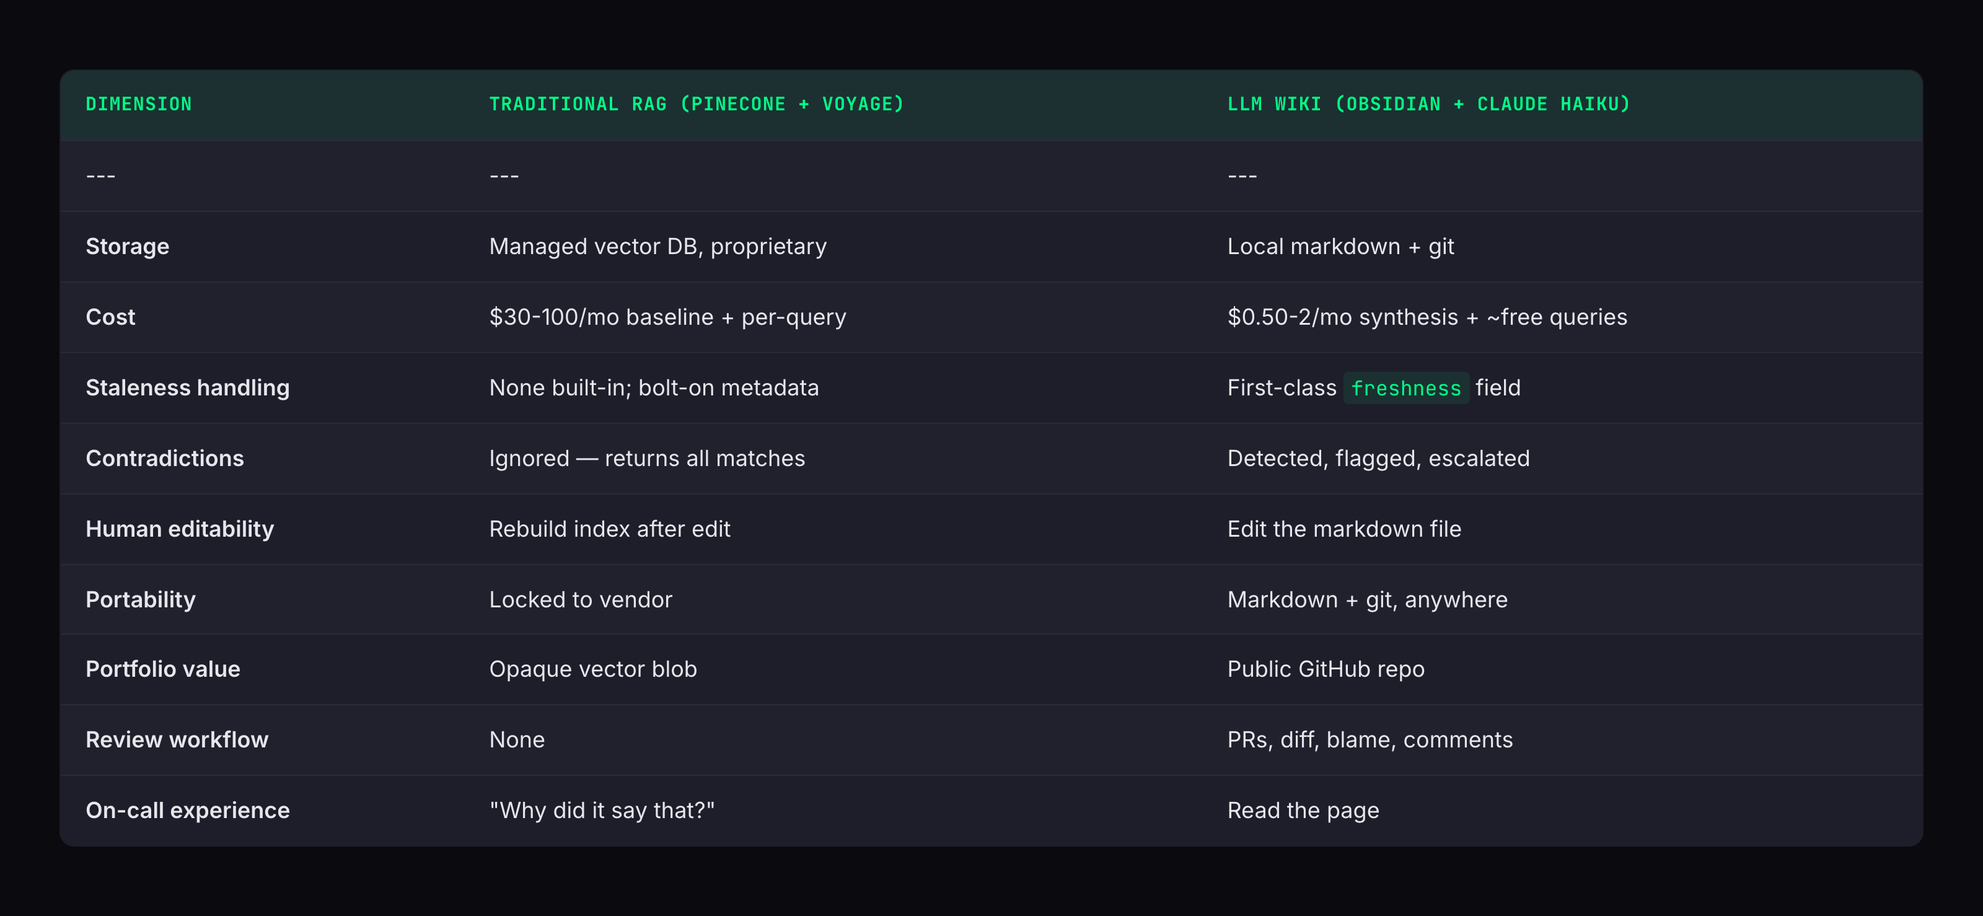
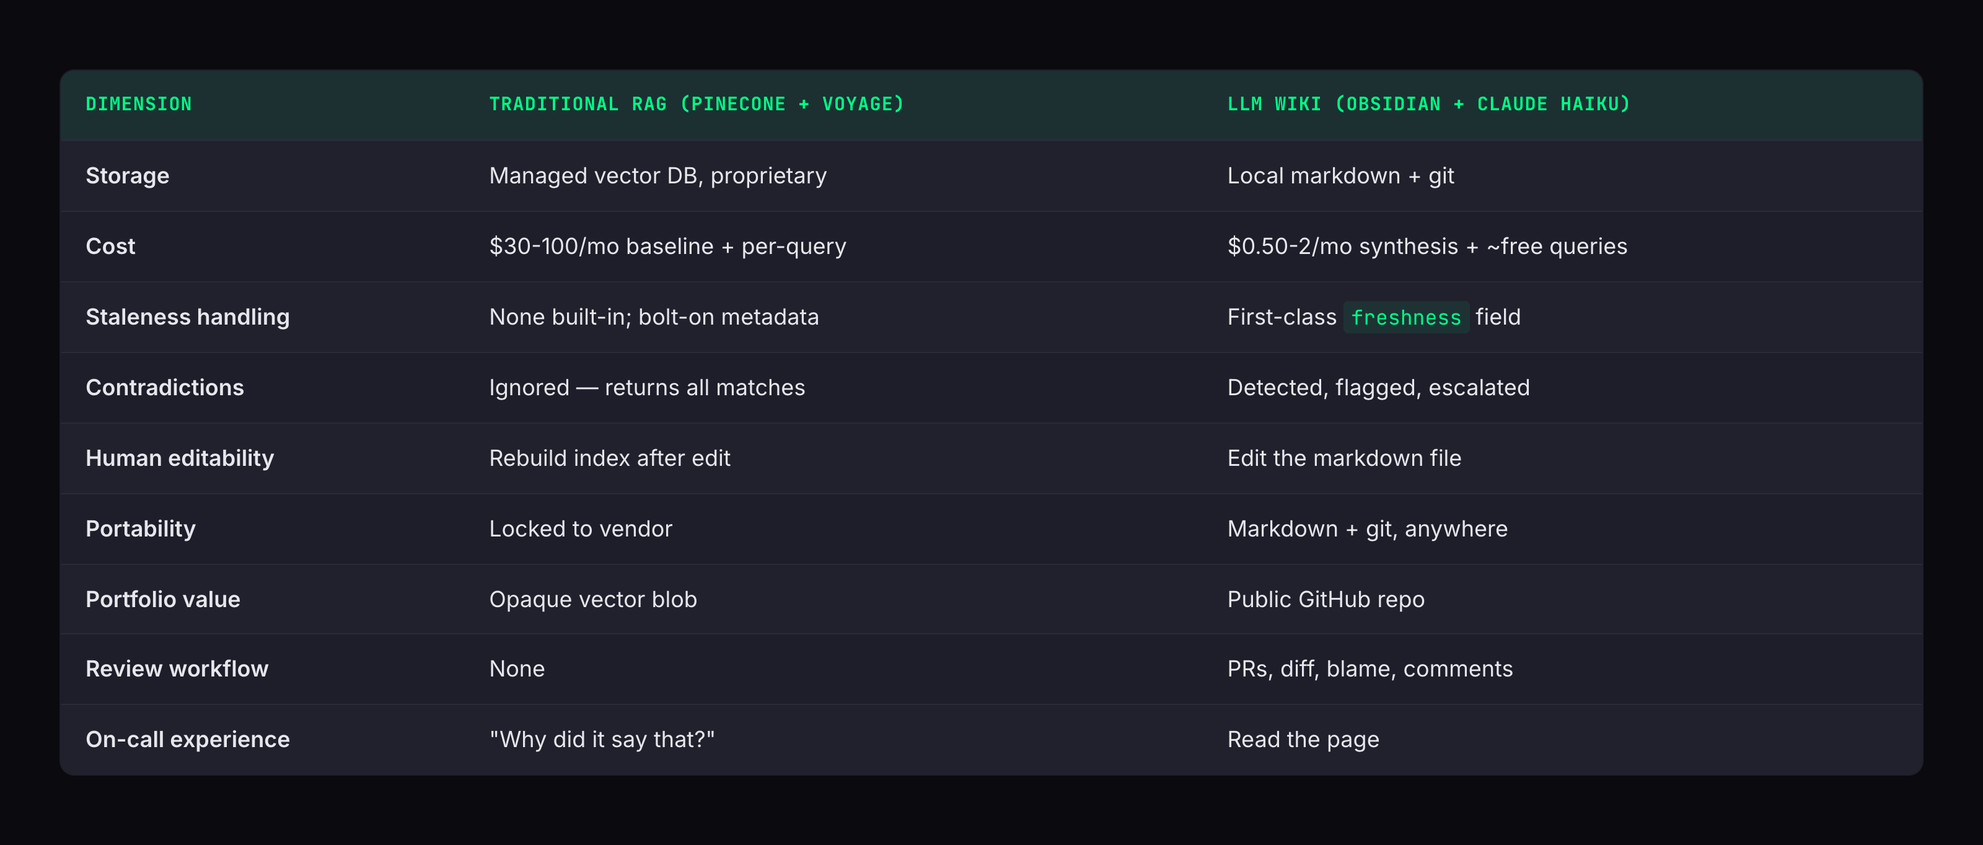
docs(articles): restore tables as PNGs in articles #5, #6, #7
Also fixes a separator-row leak in the renderer that caused a stray '---'
row to render as a data row on every table, and re-renders the earlier
articles' PNGs with the fix.

diff --git a/articles/07-multi-account-guardrails/article.md b/articles/07-multi-account-guardrails/article.md
@@ -100,42 +100,7 @@ These three become inputs to the risk assessment.
 
 Here's the master table Aegis Layer 4 enforces. Each row: an action type, its default risk tier, an AWS-specific example, and the automation behavior.
 
-[IMAGE: risk-tier-matrix.png — 20-row color-coded matrix showing Action Type, Risk Tier (NONE/LOW/MEDIUM/HIGH/BLOCKED), AWS example, and automation behavior. Render as 1600×900 PNG for Medium. Until rendered, the grouped bullets below carry the same information.]
-
-**NONE tier — auto, no approval, no dry-run:**
-
-- **CloudWatch log query** — `filter-log-events` on `/aws/eks/cluster-name`
-- **CloudWatch metric read** — `get-metric-statistics` on EKS pod metrics
-- **Describe resources** — `describe-db-instances`, `describe-clusters`
-- **kubectl get / logs / describe** — e.g. `kubectl get pods -n auth`
-
-**LOW tier — auto-approve with dry-run; post-verify:**
-
-- **kubectl rollout restart (spoke)** — `kubectl rollout restart deploy/auth-service` in a spoke
-- **kubectl scale up (spoke)** — `kubectl scale --replicas=7` (from 3) in a spoke
-
-**MEDIUM tier — Slack approval required:**
-
-- **kubectl scale down (spoke)** — `kubectl scale --replicas=1` (from 5) in a spoke
-- **kubectl delete pod (spoke)** — `kubectl delete pod auth-xxxx`
-- **kubectl rollout undo (spoke)** — roll back to previous ReplicaSet
-
-**HIGH tier — manual only, no AI execution ever:**
-
-- **Terraform apply (any account)** — `terraform apply` on any state file
-- **kubectl delete (non-pod)** — `kubectl delete deployment auth-service`
-- **RDS stop / modify** — `aws rds modify-db-instance`
-- **Any action in hub account** — anything touching `111111111111`, regardless of category
-- **Security Group rule modify** — `ec2 authorize-security-group-ingress`
-
-**BLOCKED tier — hard-coded, never automated:**
-
-- **Any action in security account** — anything touching `555555555555`
-- **IAM policy modify** — `iam put-role-policy`, `iam attach-role-policy`. AI literally cannot attempt this.
-- **S3 public-access config change** — `s3api put-public-access-block`
-- **S3 bucket policy modify** — `s3api put-bucket-policy`
-- **Cross-account IAM role change** — `iam update-assume-role-policy`
-- **KMS key policy modify** — `kms put-key-policy`
+[IMAGE: assets/02-risk-tier-matrix.png — 20-row risk tier matrix mapping specific AWS/kubectl/Terraform actions (log queries, describe calls, kubectl scale/rollout/delete, terraform apply, IAM/S3/KMS modifications, hub/security account access) to five risk tiers (NONE, LOW, MEDIUM, HIGH, BLOCKED) with concrete automation behavior per row — from auto-execute with no approval to hard-coded block where the AI literally cannot emit the action]
 
 A few things to notice:
 
@@ -422,20 +387,7 @@ Here's the kind of story that happens at 09:15 KST on a Monday — the same Mond
 
 ### Timeline
 
-- **09:12:04** — SigNoz fires alert: `auth-service` P99 > 1000ms (threshold 500ms)
-- **09:12:08** — Aegis orchestrator picks up alert, opens investigation `INV-2026-0419-00017`
-- **09:12:10** — Wiki context fetched: 3 pages on auth-service scaling
-- **09:12:12** — Pattern analyzer returns: "Pattern A match — Mon 9AM cold-start, 26 prior occurrences"
-- **09:12:15** — Claude (Sonnet) proposes: scale 3 -> 5 replicas, pre-warm connection pool
-- **09:12:16** — Guardrails engine evaluates: target account `333333333333` (spoke-prod, permitted); action `kubectl_scale` up classifies LOW; account adjustment keeps it LOW (no upgrade); rollback plan provided.
-- **09:12:17** — Pre-validation: dry-run SAFE, IAM simulator ALLOWED, OPA ALLOWED
-- **09:12:17** — Approval: auto-approved (LOW tier, all checks passed)
-- **09:12:18** — Execution: `kubectl scale deployment auth-service --replicas=5`
-- **09:12:19** — Execution succeeded; rollback window armed until 09:27:18
-- **09:12:20** — Post-validation watch started, 10-minute window
-- **09:15:00** — P99 down to 640ms (improving)
-- **09:17:00** — P99 down to 280ms (target reached)
-- **09:22:30** — Post-validation: SUCCESS. Audit record finalized.
+[IMAGE: assets/03-investigation-timeline.png — 18-row timeline table of a Monday 09:12 KST investigation showing every step second-by-second: SigNoz alert fires, wiki context fetched, pattern analyzer match, Claude proposes scale 3→5 + pool pre-warm, guardrails classify LOW, pre-validation passes (dry-run/IAM simulator/OPA), auto-approval, kubectl execution, rollback window armed, post-validation watch, P99 recovers to 280ms, audit record finalized — total AI-operator time 13 seconds, zero human involvement]
 
 Total AI-operator time from alert to mitigation: **13 seconds.**
 Human involvement: zero (because the action was LOW tier in a spoke account, with a valid rollback).
@@ -502,15 +454,7 @@ Four layers. All four have to fail. In practice, the failure mode is "the AI pic
 
 All paths relative to the [JIUNG9/aegis](https://github.com/JIUNG9/aegis) repo. Layer 4 files are planned — coming in Layer 4 per the roadmap.
 
-- **[`apps/ai-engine/guardrails/engine.py`](https://github.com/JIUNG9/aegis)** — Main guardrails orchestrator
-- **[`apps/ai-engine/guardrails/risk_assessor.py`](https://github.com/JIUNG9/aegis)** — Classifies actions into NONE/LOW/MEDIUM/HIGH/BLOCKED
-- **[`apps/ai-engine/guardrails/observation_mode.py`](https://github.com/JIUNG9/aegis)** — Trust-building ladder (Observe / Recommend / Low-Auto / Full-Auto)
-- **[`apps/ai-engine/guardrails/approval_gate.py`](https://github.com/JIUNG9/aegis)** — Slack approval integration for MEDIUM tier
-- **[`apps/ai-engine/guardrails/pre_validator.py`](https://github.com/JIUNG9/aegis)** — Dry-run, IAM simulator, OPA checks
-- **[`apps/ai-engine/guardrails/post_validator.py`](https://github.com/JIUNG9/aegis)** — Metric watch + auto-rollback trigger
-- **[`apps/ai-engine/guardrails/rollback_manager.py`](https://github.com/JIUNG9/aegis)** — Enforces rollback plan; arms rollback window
-- **[`apps/ai-engine/guardrails/audit_logger.py`](https://github.com/JIUNG9/aegis)** — SOC2-compliant decision record writer
-- **[`apps/ai-engine/guardrails/policies/`](https://github.com/JIUNG9/aegis)** — OPA/Rego policies (versioned)
+[IMAGE: assets/04-guardrails-files.png — nine-row file/role table of the Layer 4 guardrails package: engine.py (orchestrator), risk_assessor.py (NONE/LOW/MEDIUM/HIGH/BLOCKED classifier), observation_mode.py (trust-building ladder), approval_gate.py (Slack approvals), pre_validator.py (dry-run/IAM/OPA), post_validator.py (metric watch + rollback trigger), rollback_manager.py, audit_logger.py (SOC2 records), policies/ (OPA/Rego)]
 
 Environment variables the guardrails engine expects:
 

diff --git a/articles/06-monday-patterns/article.md b/articles/06-monday-patterns/article.md
@@ -196,33 +196,15 @@ Here are three that came out of the analyzer — genericized, but the numbers ar
 
 ### Pattern A — "Auth service latency spikes Monday 9-11 AM"
 
-- **Service** — `auth-service`
-- **Window** — Mon 09:00-11:00 KST
-- **Baseline P99** — 180 ms
-- **Hotspot P99** — 1,240 ms
-- **Event count over 180d** — 45 (across ~26 Mondays)
-- **Root cause (suspected)** — Connection pool cold-start + 4x login throughput
-- **Suggested action** — Pre-warm pool at 08:45; pre-scale 3 -> 5 replicas at 08:30
+[IMAGE: assets/02-pattern-a-auth-latency.png — seven-row table describing Pattern A on auth-service: Mon 09:00-11:00 KST window, baseline P99 180ms vs hotspot P99 1,240ms, 45 events across ~26 Mondays in 180d, connection pool cold-start root cause, pre-warm and pre-scale 3→5 action]
 
 ### Pattern B — "Batch job at 02:00 correlates with DB write amplification"
 
-- **Service** — `analytics-worker` -> `postgres-primary`
-- **Window** — Mon 02:00-04:00 KST
-- **Baseline write IOPS** — 2,100
-- **Hotspot write IOPS** — 14,800
-- **Event count over 180d** — 22 (all Mondays; no misses)
-- **Root cause** — Weekly reconcile job rewrites 3 materialized views
-- **Suggested action** — Stagger view rebuilds; move 1 of 3 to Sunday 23:00
+[IMAGE: assets/03-pattern-b-batch-iops.png — seven-row table describing Pattern B on analytics-worker → postgres-primary: Mon 02:00-04:00 KST window, baseline 2,100 write IOPS vs hotspot 14,800, 22 events (all Mondays), weekly reconcile job rebuilding 3 materialized views, stagger rebuilds action]
 
 ### Pattern C — "Traffic drops 70% between 22:00-06:00 KST"
 
-- **Service** — all user-facing
-- **Window** — Daily 22:00-06:00 KST
-- **Peak RPS** — 3,400
-- **Trough RPS** — 1,020
-- **Pattern type** — `idle_window`
-- **Suggested action** — Scheduled rightsizing — drop replica count 40% overnight
-- **Estimated savings** — ~$3,000/month across all spoke accounts
+[IMAGE: assets/04-pattern-c-idle-window.png — seven-row table describing Pattern C idle window on all user-facing services: daily 22:00-06:00 KST window, peak 3,400 RPS vs trough 1,020 RPS, scheduled rightsizing by dropping replicas 40% overnight, ~$3,000/month savings]
 
 Pattern C is the one that makes finance teams smile. The other two are the ones that make on-call engineers smile.
 
@@ -276,10 +258,7 @@ At a large e-commerce company, handling 1M+ daily commerce transactions, we lear
 
 Six months after shipping the analyzer (well, after I started running it by hand — the full v4.0 Layer 2 is still rolling out), the team's FinOps summary looked like:
 
-- **Monday morning incidents** — from ~27/month to ~6/month. Delta: -78%.
-- **Mean time to mitigation (MTTM) on Mon 9 AM** — from 18 min to 4 min (pre-positioned). Delta: -78%.
-- **Overnight compute cost (22:00-06:00)** — from $4,200/mo to $1,200/mo. Delta: -$3,000/mo.
-- **Auto-scaling "surprise" events** — from frequent to near zero.
+[IMAGE: assets/05-finops-results.png — four-row before/after FinOps results table showing Monday morning incidents (27→6/mo, -78%), MTTM on Mon 9AM (18→4 min, -78%), overnight compute cost ($4,200→$1,200/mo, -$3,000/mo), and auto-scaling surprise events (frequent → near zero)]
 
 The ~$3K/month saving is across our non-production spoke account plus two smaller production services we felt confident scheduling. We haven't done it everywhere — some workloads genuinely don't want to be rightsized on a cron, and the AI's recommendations respect that.
 
@@ -328,11 +307,7 @@ For the AI-cost nerds: this is also the difference between burning Sonnet tokens
 
 The files involved (paths are relative to the [JIUNG9/aegis](https://github.com/JIUNG9/aegis) repo; Layer 2 files are planned — coming in Layer 2 per the roadmap):
 
-- **[`apps/ai-engine/connectors/signoz_client.py`](https://github.com/JIUNG9/aegis)** — HTTP API client for logs, metrics, traces, alerts
-- **[`apps/ai-engine/connectors/alert_fetcher.py`](https://github.com/JIUNG9/aegis)** — Firing alert pull with filters
-- **[`apps/ai-engine/connectors/metric_fetcher.py`](https://github.com/JIUNG9/aegis)** — PromQL range queries
-- **[`apps/ai-engine/connectors/pattern_analyzer.py`](https://github.com/JIUNG9/aegis)** — Time-of-week bucketing + correlation
-- **[`apps/ai-engine/agents/orchestrator.py`](https://github.com/JIUNG9/aegis)** — Wires patterns into Claude's investigation context
+[IMAGE: assets/06-connector-files.png — five-row file/role table listing the Layer 2 SigNoz connector components: signoz_client.py (HTTP API client), alert_fetcher.py (firing alerts), metric_fetcher.py (PromQL range queries), pattern_analyzer.py (time-of-week bucketing), orchestrator.py (wires patterns into Claude)]
 
 Environment variables the connector expects:
 

diff --git a/articles/05-claude-mcp-pager/article.md b/articles/05-claude-mcp-pager/article.md
@@ -158,9 +158,7 @@ The whole loop runs in 60–120 seconds from alert-fire to Slack-card. The slowe
 
 Claude has three model tiers that map naturally to investigation complexity. The AI settings page in Aegis exposes them as **Eco**, **Standard**, and **Deep**.
 
-- **Eco** — Haiku. Wiki synthesis, simple log summaries, routing decisions. ~$0.001 per investigation.
-- **Standard** — Sonnet 4.6. Incident investigation, pattern analysis, remediation proposal. ~$0.08 per investigation.
-- **Deep** — Opus. Multi-service correlation, complex RCAs, novel failure modes. ~$0.25 per investigation.
+[IMAGE: assets/02-model-tier-routing.png — three-row table mapping Eco/Standard/Deep tiers to Claude models (Haiku, Sonnet 4.6, Opus), the investigation types each is used for, and typical per-investigation cost ($0.001 to $0.25)]
 
 The routing logic lives in the token tracker (`services/token_tracker.py` in the existing codebase). It's not a black-box heuristic — it's a decision table:
 
@@ -256,16 +254,7 @@ One pattern I'm watching carefully: the AI has a tendency to over-fetch when a R
 
 Here's the real change from the before-Aegis to the after-Aegis workflow.
 
-- **Alert fires → on-call acknowledges** — 30 sec before, 30 sec after.
-- **Find the right runbook** — 3–8 min before. 0 sec after (wiki context in Slack).
-- **Pull SigNoz logs + metrics** — 4–10 min before. 0 sec after (pre-fetched in context).
-- **Correlate with recent incidents** — 5–15 min before. 0 sec after (pattern analyzer did it).
-- **Form a hypothesis** — 2–5 min before. 0 sec after (in Slack card).
-- **Decide on an action** — 1–3 min before. 15–45 sec after (read card, click).
-- **Execute** — 1–2 min before. 30–90 sec after (auto or Slack-approved).
-- **Verify fix worked** — 3–5 min before. Auto after (post-validator, 60 sec).
-- **Total p50** — **~20 min** before. **~2 min** after.
-- **Total p95 (harder incidents)** — **~45 min** before. **~5 min** after.
+[IMAGE: assets/03-before-after-workflow.png — 10-row workflow comparison table showing each on-call step (acknowledge, find runbook, pull logs/metrics, correlate incidents, form hypothesis, decide, execute, verify) with before (manual, ~20 min p50 / ~45 min p95) vs after (Control Tower, ~2 min p50 / ~5 min p95) timings]
 
 The Control Tower doesn't *solve* the incident faster than a senior SRE can. What it does is eliminate the 18 minutes of ambient toil per alert that come from context-gathering and tab-switching. Compounded over a week, that's hours back.
 

diff --git a/articles/07-multi-account-guardrails/assets/02-risk-tier-matrix.md b/articles/07-multi-account-guardrails/assets/02-risk-tier-matrix.md
@@ -1,0 +1,22 @@
+| # | Action Type | Risk Tier | AWS-Specific Example | Automation Behavior |
+|---|---|---|---|---|
+| 1 | CloudWatch log query | NONE | `filter-log-events` on `/aws/eks/cluster-name` | Auto, no approval, no dry-run |
+| 2 | CloudWatch metric read | NONE | `get-metric-statistics` on EKS pod metrics | Auto, no approval |
+| 3 | Describe resources | NONE | `describe-db-instances`, `describe-clusters` | Auto, no approval |
+| 4 | kubectl get / logs / describe | NONE | `kubectl get pods -n auth` | Auto, no approval |
+| 5 | kubectl rollout restart (spoke) | LOW | `kubectl rollout restart deploy/auth-service` in spoke | Auto-approve with dry-run; post-verify |
+| 6 | kubectl scale up (spoke) | LOW | `kubectl scale --replicas=7` (from 3) in spoke | Auto-approve with dry-run; post-verify |
+| 7 | kubectl scale down (spoke) | MEDIUM | `kubectl scale --replicas=1` (from 5) in spoke | Slack approval required |
+| 8 | kubectl delete pod (spoke) | MEDIUM | `kubectl delete pod auth-xxxx` | Slack approval required |
+| 9 | kubectl rollout undo (spoke) | MEDIUM | Roll back to previous ReplicaSet | Slack approval required |
+| 10 | Terraform apply (any account) | HIGH | `terraform apply` on any state file | Manual only, no AI execution ever |
+| 11 | kubectl delete (non-pod) | HIGH | `kubectl delete deployment auth-service` | Manual only |
+| 12 | RDS stop / modify | HIGH | `aws rds modify-db-instance` | Manual only |
+| 13 | Any action in hub account | HIGH | Anything touching `111111111111` | Manual only, regardless of category |
+| 14 | Any action in security account | BLOCKED | Anything touching `555555555555` | Never automated, ever |
+| 15 | IAM policy modify | BLOCKED | `iam put-role-policy`, `iam attach-role-policy` | Hard-coded block — AI literally cannot attempt this |
+| 16 | S3 public-access config change | BLOCKED | `s3api put-public-access-block` | Hard-coded block |
+| 17 | S3 bucket policy modify | BLOCKED | `s3api put-bucket-policy` | Hard-coded block |
+| 18 | Cross-account IAM role change | BLOCKED | `iam update-assume-role-policy` | Hard-coded block |
+| 19 | Security Group rule modify | HIGH | `ec2 authorize-security-group-ingress` | Manual only |
+| 20 | KMS key policy modify | BLOCKED | `kms put-key-policy` | Hard-coded block |

diff --git a/articles/07-multi-account-guardrails/assets/03-investigation-timeline.md b/articles/07-multi-account-guardrails/assets/03-investigation-timeline.md
@@ -1,0 +1,20 @@
+| Time (KST) | Event |
+|---|---|
+| 09:12:04 | SigNoz fires alert: `auth-service` P99 > 1000ms (threshold 500ms) |
+| 09:12:08 | Aegis orchestrator picks up alert, opens investigation `INV-2026-0419-00017` |
+| 09:12:10 | Wiki context fetched: 3 pages on auth-service scaling |
+| 09:12:12 | Pattern analyzer returns: "Pattern A match — Mon 9AM cold-start, 26 prior occurrences" |
+| 09:12:15 | Claude (Sonnet) proposes: scale 3 -> 5 replicas, pre-warm connection pool |
+| 09:12:16 | Guardrails engine evaluates: |
+| 09:12:16 |   - Target account: `333333333333` (spoke-prod) — spoke, permitted |
+| 09:12:16 |   - Action type: `kubectl_scale` up — LOW |
+| 09:12:16 |   - Account adjustment: LOW (no upgrade) |
+| 09:12:16 |   - Rollback plan: provided |
+| 09:12:17 | Pre-validation: dry-run SAFE, IAM simulator ALLOWED, OPA ALLOWED |
+| 09:12:17 | Approval: auto-approved (LOW tier, all checks passed) |
+| 09:12:18 | Execution: `kubectl scale deployment auth-service --replicas=5` |
+| 09:12:19 | Execution succeeded; rollback window armed until 09:27:18 |
+| 09:12:20 | Post-validation watch started, 10-minute window |
+| 09:15:00 | P99 down to 640ms (improving) |
+| 09:17:00 | P99 down to 280ms (target reached) |
+| 09:22:30 | Post-validation: SUCCESS. Audit record finalized. |

diff --git a/articles/07-multi-account-guardrails/assets/04-guardrails-files.md b/articles/07-multi-account-guardrails/assets/04-guardrails-files.md
@@ -1,0 +1,11 @@
+| File | Role |
+|---|---|
+| [`apps/ai-engine/guardrails/engine.py`](https://github.com/JIUNG9/aegis) | Main guardrails orchestrator |
+| [`apps/ai-engine/guardrails/risk_assessor.py`](https://github.com/JIUNG9/aegis) | Classifies actions into NONE/LOW/MEDIUM/HIGH/BLOCKED |
+| [`apps/ai-engine/guardrails/observation_mode.py`](https://github.com/JIUNG9/aegis) | Trust-building ladder (Observe / Recommend / Low-Auto / Full-Auto) |
+| [`apps/ai-engine/guardrails/approval_gate.py`](https://github.com/JIUNG9/aegis) | Slack approval integration for MEDIUM tier |
+| [`apps/ai-engine/guardrails/pre_validator.py`](https://github.com/JIUNG9/aegis) | Dry-run, IAM simulator, OPA checks |
+| [`apps/ai-engine/guardrails/post_validator.py`](https://github.com/JIUNG9/aegis) | Metric watch + auto-rollback trigger |
+| [`apps/ai-engine/guardrails/rollback_manager.py`](https://github.com/JIUNG9/aegis) | Enforces rollback plan; arms rollback window |
+| [`apps/ai-engine/guardrails/audit_logger.py`](https://github.com/JIUNG9/aegis) | SOC2-compliant decision record writer |
+| [`apps/ai-engine/guardrails/policies/`](https://github.com/JIUNG9/aegis) | OPA/Rego policies (versioned) |

diff --git a/articles/05-claude-mcp-pager/assets/03-before-after-workflow.md b/articles/05-claude-mcp-pager/assets/03-before-after-workflow.md
@@ -1,0 +1,12 @@
+| Step | Before (manual) | After (with Control Tower) |
+|---|---|---|
+| Alert fires → on-call acknowledges | 30 sec | 30 sec |
+| Find the right runbook | 3–8 min | 0 sec (wiki context in Slack) |
+| Pull SigNoz logs + metrics | 4–10 min | 0 sec (pre-fetched in context) |
+| Correlate with recent incidents | 5–15 min | 0 sec (pattern analyzer did it) |
+| Form a hypothesis | 2–5 min | 0 sec (in Slack card) |
+| Decide on an action | 1–3 min | 15–45 sec (read card, click) |
+| Execute | 1–2 min | 30–90 sec (auto or Slack-approved) |
+| Verify fix worked | 3–5 min | Auto (post-validator, 60 sec) |
+| **Total p50** | **~20 min** | **~2 min** |
+| **Total p95 (harder incidents)** | **~45 min** | **~5 min** |

diff --git a/articles/06-monday-patterns/assets/06-connector-files.md b/articles/06-monday-patterns/assets/06-connector-files.md
@@ -1,0 +1,7 @@
+| File | Role |
+|---|---|
+| [`apps/ai-engine/connectors/signoz_client.py`](https://github.com/JIUNG9/aegis) | HTTP API client — logs, metrics, traces, alerts |
+| [`apps/ai-engine/connectors/alert_fetcher.py`](https://github.com/JIUNG9/aegis) | Firing alert pull with filters |
+| [`apps/ai-engine/connectors/metric_fetcher.py`](https://github.com/JIUNG9/aegis) | PromQL range queries |
+| [`apps/ai-engine/connectors/pattern_analyzer.py`](https://github.com/JIUNG9/aegis) | Time-of-week bucketing + correlation |
+| [`apps/ai-engine/agents/orchestrator.py`](https://github.com/JIUNG9/aegis) | Wires patterns into Claude's investigation context |

diff --git a/articles/06-monday-patterns/assets/03-pattern-b-batch-iops.md b/articles/06-monday-patterns/assets/03-pattern-b-batch-iops.md
@@ -1,0 +1,9 @@
+| Field | Value |
+|---|---|
+| Service | `analytics-worker` -> `postgres-primary` |
+| Window | Mon 02:00-04:00 KST |
+| Baseline write IOPS | 2,100 |
+| Hotspot write IOPS | 14,800 |
+| Event count over 180d | 22 (all Mondays; no misses) |
+| Root cause | Weekly reconcile job rewrites 3 materialized views |
+| Suggested action | Stagger view rebuilds; move 1 of 3 to Sunday 23:00 |

diff --git a/articles/05-claude-mcp-pager/assets/02-model-tier-routing.md b/articles/05-claude-mcp-pager/assets/02-model-tier-routing.md
@@ -1,0 +1,5 @@
+| Tier | Model | Used For | Typical Cost per Investigation |
+|---|---|---|---|
+| **Eco** | Haiku | Wiki synthesis, simple log summaries, routing decisions | ~$0.001 |
+| **Standard** | Sonnet 4.6 | Incident investigation, pattern analysis, remediation proposal | ~$0.08 |
+| **Deep** | Opus | Multi-service correlation, complex RCAs, novel failure modes | ~$0.25 |

diff --git a/articles/06-monday-patterns/assets/02-pattern-a-auth-latency.md b/articles/06-monday-patterns/assets/02-pattern-a-auth-latency.md
@@ -1,0 +1,9 @@
+| Field | Value |
+|---|---|
+| Service | `auth-service` |
+| Window | Mon 09:00-11:00 KST |
+| Baseline P99 | 180 ms |
+| Hotspot P99 | 1,240 ms |
+| Event count over 180d | 45 (across ~26 Mondays) |
+| Root cause (suspected) | Connection pool cold-start + 4x login throughput |
+| Suggested action | Pre-warm pool at 08:45; pre-scale 3 -> 5 replicas at 08:30 |

diff --git a/articles/06-monday-patterns/assets/05-finops-results.md b/articles/06-monday-patterns/assets/05-finops-results.md
@@ -1,0 +1,6 @@
+| Category | Before | After | Delta |
+|---|---|---|---|
+| Monday morning incidents | ~27/month | ~6/month | -78% |
+| Mean time to mitigation (MTTM) on Mon 9 AM | 18 min | 4 min (pre-positioned) | -78% |
+| Overnight compute cost (22:00-06:00) | $4,200/mo | $1,200/mo | -$3,000/mo |
+| Auto-scaling "surprise" events | frequent | near zero | n/a |
